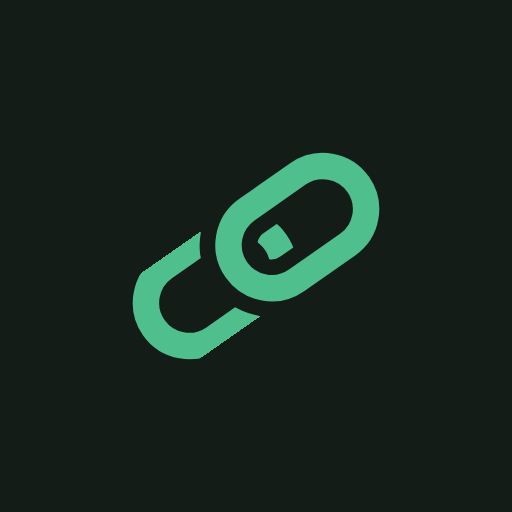
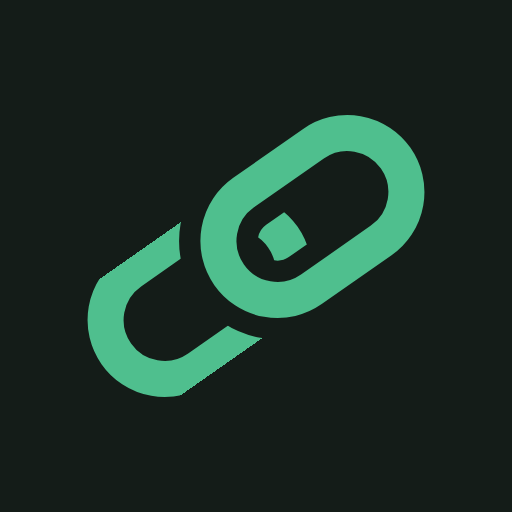
feat(чийт код): по-голям знак на иконката; отделна иконка за Android
На iPhone веригата на 60% се губеше в плочката. Обикновената иконка
носи знака на 82%; за изрязването в кръг на Android има отделна с 60%.

Claude-Session: https://claude.ai/code/session_016xgF4HVFASxrVTErSUfvqs

Changed region(s): [[0.1562, 0.2188, 0.8438, 0.7812]]

diff --git a/public/cheatcode/sw.js b/public/cheatcode/sw.js
@@ -1,6 +1,6 @@
 /* Генериран от scripts/build-cheatcode.mjs — не се пипа на ръка. */
-const CACHE = 'cheatcode-9662b53e7308';
-const PRECACHE = ["/cheatcode/","/cheatcode/manifest.webmanifest","/cheatcode/icon-192.png","/cheatcode/icon-512.png","/cheatcode/icon-180.png","/cheatcode/favicon.svg","/cheatcode/banan.jpg","/cheatcode/gris-banan.jpg","/cheatcode/gris-biskviti.jpg","/cheatcode/gris-oba.jpg","/cheatcode/gris.jpg","/cheatcode/kakao.jpg","/cheatcode/kayma.jpg","/cheatcode/protein.jpg","/cheatcode/yagodi.jpg"];
+const CACHE = 'cheatcode-98e4ed634c7a';
+const PRECACHE = ["/cheatcode/","/cheatcode/manifest.webmanifest","/cheatcode/icon-192.png","/cheatcode/icon-512.png","/cheatcode/icon-maskable-512.png","/cheatcode/icon-180.png","/cheatcode/favicon.svg","/cheatcode/banan.jpg","/cheatcode/gris-banan.jpg","/cheatcode/gris-biskviti.jpg","/cheatcode/gris-oba.jpg","/cheatcode/gris.jpg","/cheatcode/kakao.jpg","/cheatcode/kayma.jpg","/cheatcode/protein.jpg","/cheatcode/yagodi.jpg"];
 
 self.addEventListener('install', (e) => {
   e.waitUntil(caches.open(CACHE).then((c) => c.addAll(PRECACHE)).then(() => self.skipWaiting()));

diff --git a/docs/obsidian/2026-09-29 Чийт Код като PWA.md b/docs/obsidian/2026-09-29 Чийт Код като PWA.md
@@ -41,3 +41,15 @@
 
 Отворено: `avatar.svg` и `avatar-dark.svg` все още рисуват веригата различно от
 `chain.svg` (маската е с трансформация, приложена два пъти). Не са пипани.
+
+## Иконката — по-голям знак
+
+На началния екран на iPhone веригата на 60% стоеше като скица в празна плочка
+до плътните знаци на съседите. 60% е нужно само за Android, който реже иконката
+в кръг. Сега има две:
+- `app-icon.svg` → `icon-180/192/512.png`: знакът на 82% (iPhone и обикновената иконка);
+- `app-icon-maskable.svg` → `icon-maskable-512.png`: знакът на 60% (Android).
+
+Геометрията и дебелината на линията са на `chain.svg`, без промяна. Пробван
+беше и по-дебел ход, но той изкривява заплитането, а по-дебелият вариант на
+марката (`chain-small`) е само под 24 пиксела.

diff --git a/cheatcode/brand/RULES.md b/cheatcode/brand/RULES.md
@@ -12,7 +12,8 @@
 | `avatar.svg` | профилно кръгче, смърчово поле, светъл знак |
 | `avatar-dark.svg` | същото за тъмни носители |
 | `favicon.svg` | плътен фон, най-дебелият ход |
-| `app-icon.svg` | иконка на приложението (PWA): квадратно тъмно поле `#141C18`, ментов знак, геометрията на `chain.svg`; от него се правят `public/cheatcode/icon-*.png` |
+| `app-icon.svg` | иконка на приложението (PWA): квадратно тъмно поле `#141C18`, ментов знак на 82%, геометрията на `chain.svg`; от него са `public/cheatcode/icon-180/192/512.png` |
+| `app-icon-maskable.svg` | същото със знака на 60% — за Android, който реже иконката в кръг; от него е `icon-maskable-512.png` |
 
 ## Геометрията не е по око
 
